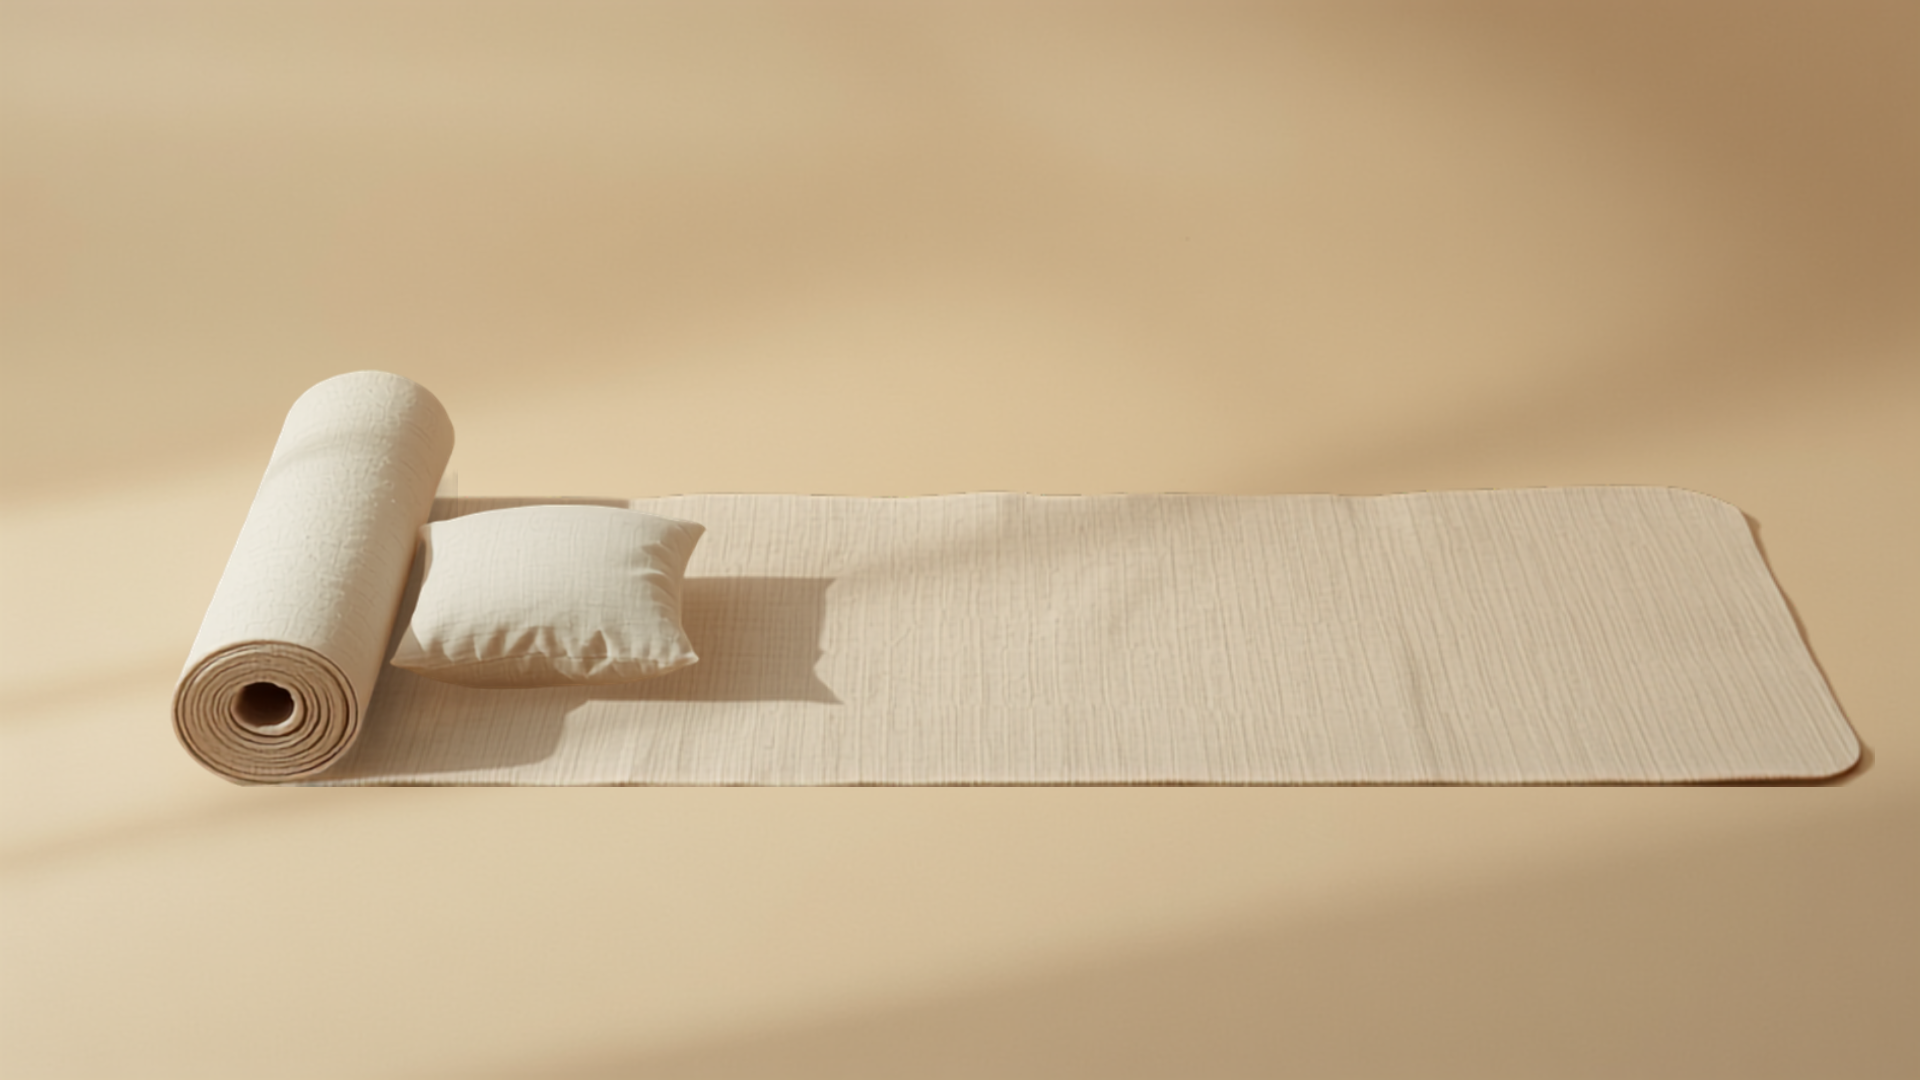
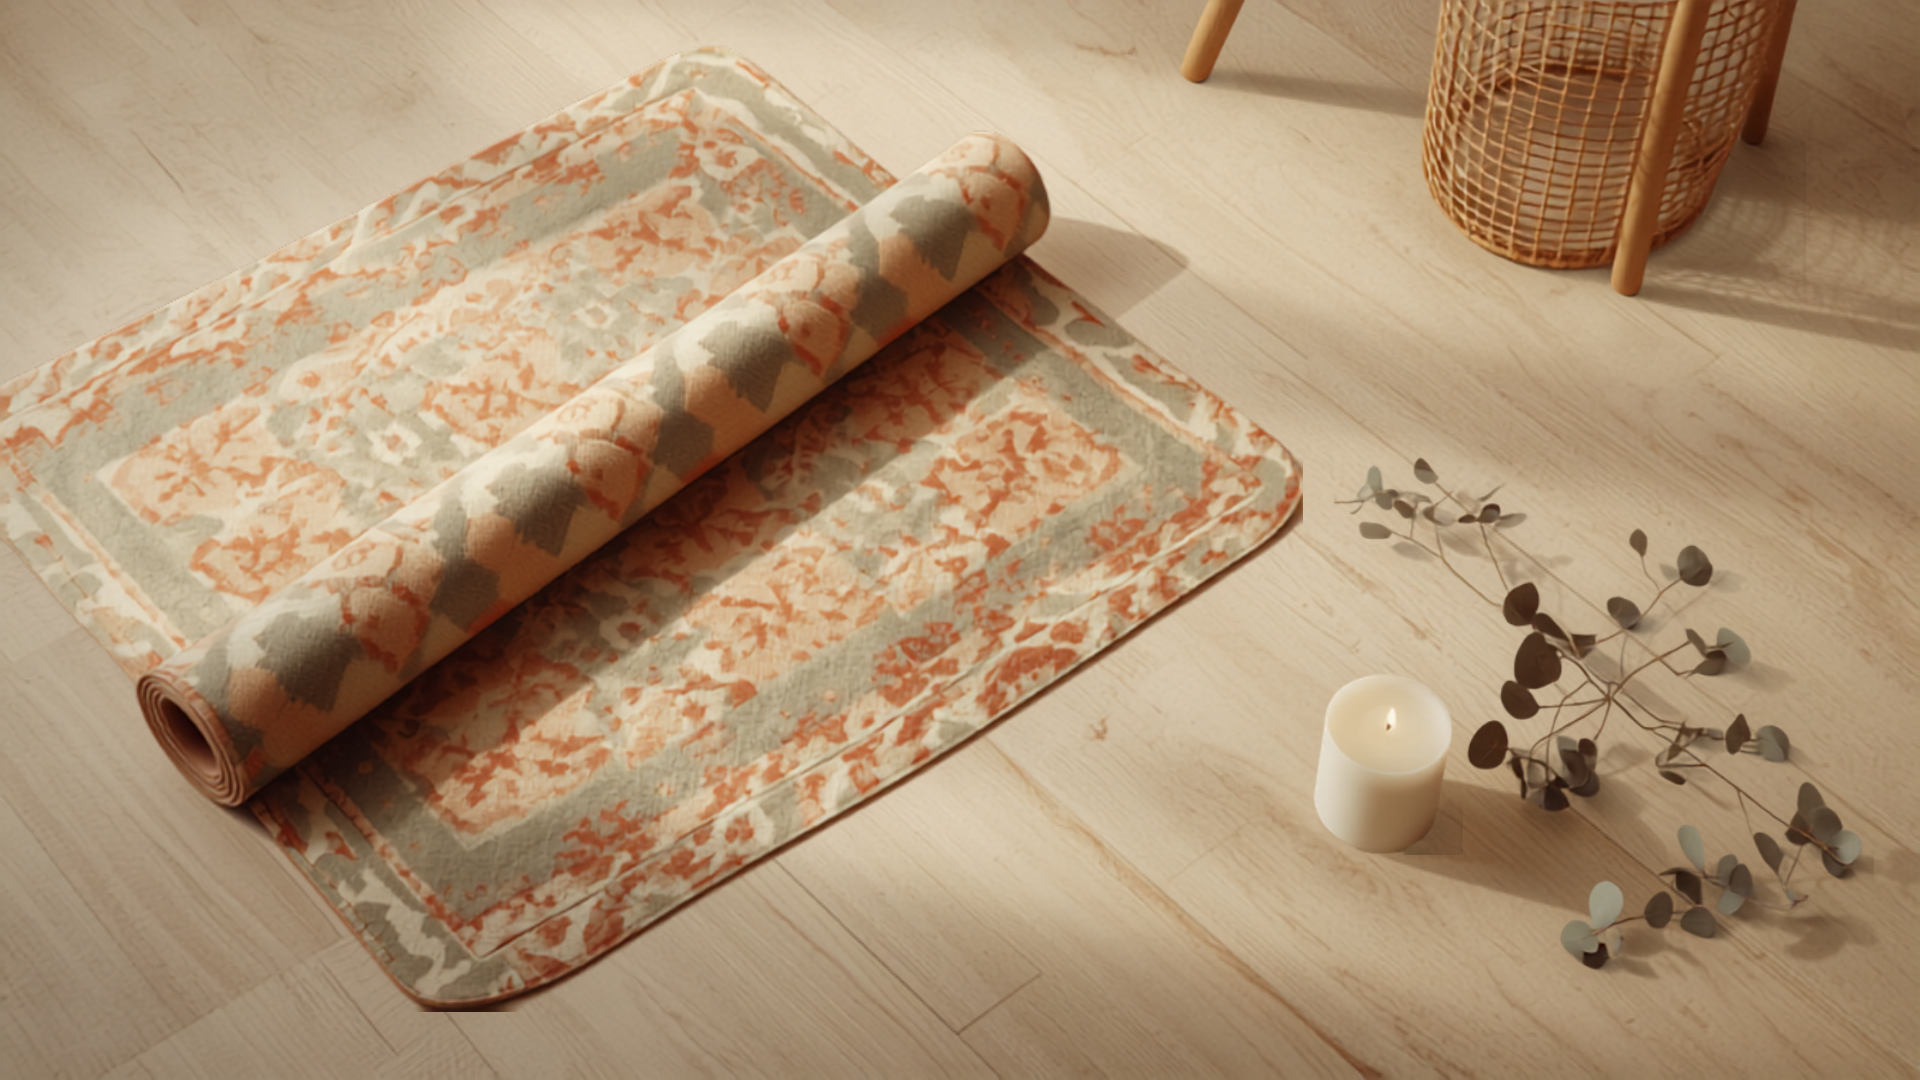
Add Child's Pose photo + warmer boho header image to the gentle-yoga guide (#19)
- Replace site-assets/guide-gentle-yoga.png: was a sterile studio shot of a
  plain cream mat; now a half-unrolled mat with a warm bohemian block-print
  pattern (terracotta / sage / blush / cream) on a pale oak floor with a lit
  candle and dried eucalyptus, warm late-afternoon light. Header alt text
  updated to match.
- Add <img class="pose-image"> to the Child's Pose block (it had copy + a
  video link but no photo, unlike the other pose blocks). New asset
  site-assets/pose-childs-pose.png, visually confirmed as a correct Child's
  Pose before use.
- Legs-Up-The-Wall block still has no photo: image generation could not
  produce a correct, verifiable Viparita Karani (repeated attempts rendered
  an in-air supine leg raise, not legs supported against a wall). Left as-is
  rather than ship a misleading pose image on an instructional page.

Both the template and the built guides/gentle-yoga/index.html updated;
parity verified (identical apart from the embedded font blob). Rendered
locally at desktop 1280 and mobile 390.

Region-independent from PR #18 (cookie-banner CSS/JS near end of body) and
PR #16 (new autumn guide file) — no expected conflict.

diff --git a/guide-gentle-yoga.template.html b/guide-gentle-yoga.template.html
@@ -123,7 +123,7 @@
   <a class="back" href="/">&larr; Back to Soul &amp; Selenite</a>
 
   <article class="card">
-    <img class="guide-image" src="/site-assets/guide-gentle-yoga.png" alt="A rolled linen-coloured yoga mat with a small cushion, softly lit" loading="lazy">
+    <img class="guide-image" src="/site-assets/guide-gentle-yoga.png" alt="A half-unrolled yoga mat with a warm bohemian block-print pattern in terracotta, sage and cream on a pale wood floor, beside a lit candle and a sprig of dried eucalyptus" loading="lazy">
     <p class="eyebrow">Gentle practice</p>
     <h1 class="title">Gentle Yoga for Headaches, Colds &amp; Everyday Tension</h1>
     <p class="lead">Not every practice needs to start with a reading. Some days you just want something small and gentle for exactly how you're feeling right now — here are a few simple things worth trying.</p>
@@ -153,6 +153,7 @@
     </div>
     <div class="pose-block">
       <p class="pose"><b>Child's Pose</b> — kneel, sit back on your heels, fold forward with your forehead resting down (a cushion under your forehead or chest if that's more comfortable). Slow, easy breathing through the nose if you can manage it.</p>
+      <img class="pose-image" src="/site-assets/pose-childs-pose.png" alt="A person in Child's Pose, kneeling with their torso folded forward over their thighs and both arms stretched out along the mat" loading="lazy">
       <a class="pose-video" href="https://www.youtube.com/watch?v=eqVMAPM00DM" target="_blank" rel="noopener"><span class="play">&#9654;</span> Watch: Extended Child's Pose (Yoga With Adriene)</a>
     </div>
 

diff --git a/guides/gentle-yoga/index.html b/guides/gentle-yoga/index.html
@@ -123,7 +123,7 @@
   <a class="back" href="/">&larr; Back to Soul &amp; Selenite</a>
 
   <article class="card">
-    <img class="guide-image" src="/site-assets/guide-gentle-yoga.png" alt="A rolled linen-coloured yoga mat with a small cushion, softly lit" loading="lazy">
+    <img class="guide-image" src="/site-assets/guide-gentle-yoga.png" alt="A half-unrolled yoga mat with a warm bohemian block-print pattern in terracotta, sage and cream on a pale wood floor, beside a lit candle and a sprig of dried eucalyptus" loading="lazy">
     <p class="eyebrow">Gentle practice</p>
     <h1 class="title">Gentle Yoga for Headaches, Colds &amp; Everyday Tension</h1>
     <p class="lead">Not every practice needs to start with a reading. Some days you just want something small and gentle for exactly how you're feeling right now — here are a few simple things worth trying.</p>
@@ -153,6 +153,7 @@
     </div>
     <div class="pose-block">
       <p class="pose"><b>Child's Pose</b> — kneel, sit back on your heels, fold forward with your forehead resting down (a cushion under your forehead or chest if that's more comfortable). Slow, easy breathing through the nose if you can manage it.</p>
+      <img class="pose-image" src="/site-assets/pose-childs-pose.png" alt="A person in Child's Pose, kneeling with their torso folded forward over their thighs and both arms stretched out along the mat" loading="lazy">
       <a class="pose-video" href="https://www.youtube.com/watch?v=eqVMAPM00DM" target="_blank" rel="noopener"><span class="play">&#9654;</span> Watch: Extended Child's Pose (Yoga With Adriene)</a>
     </div>
 
